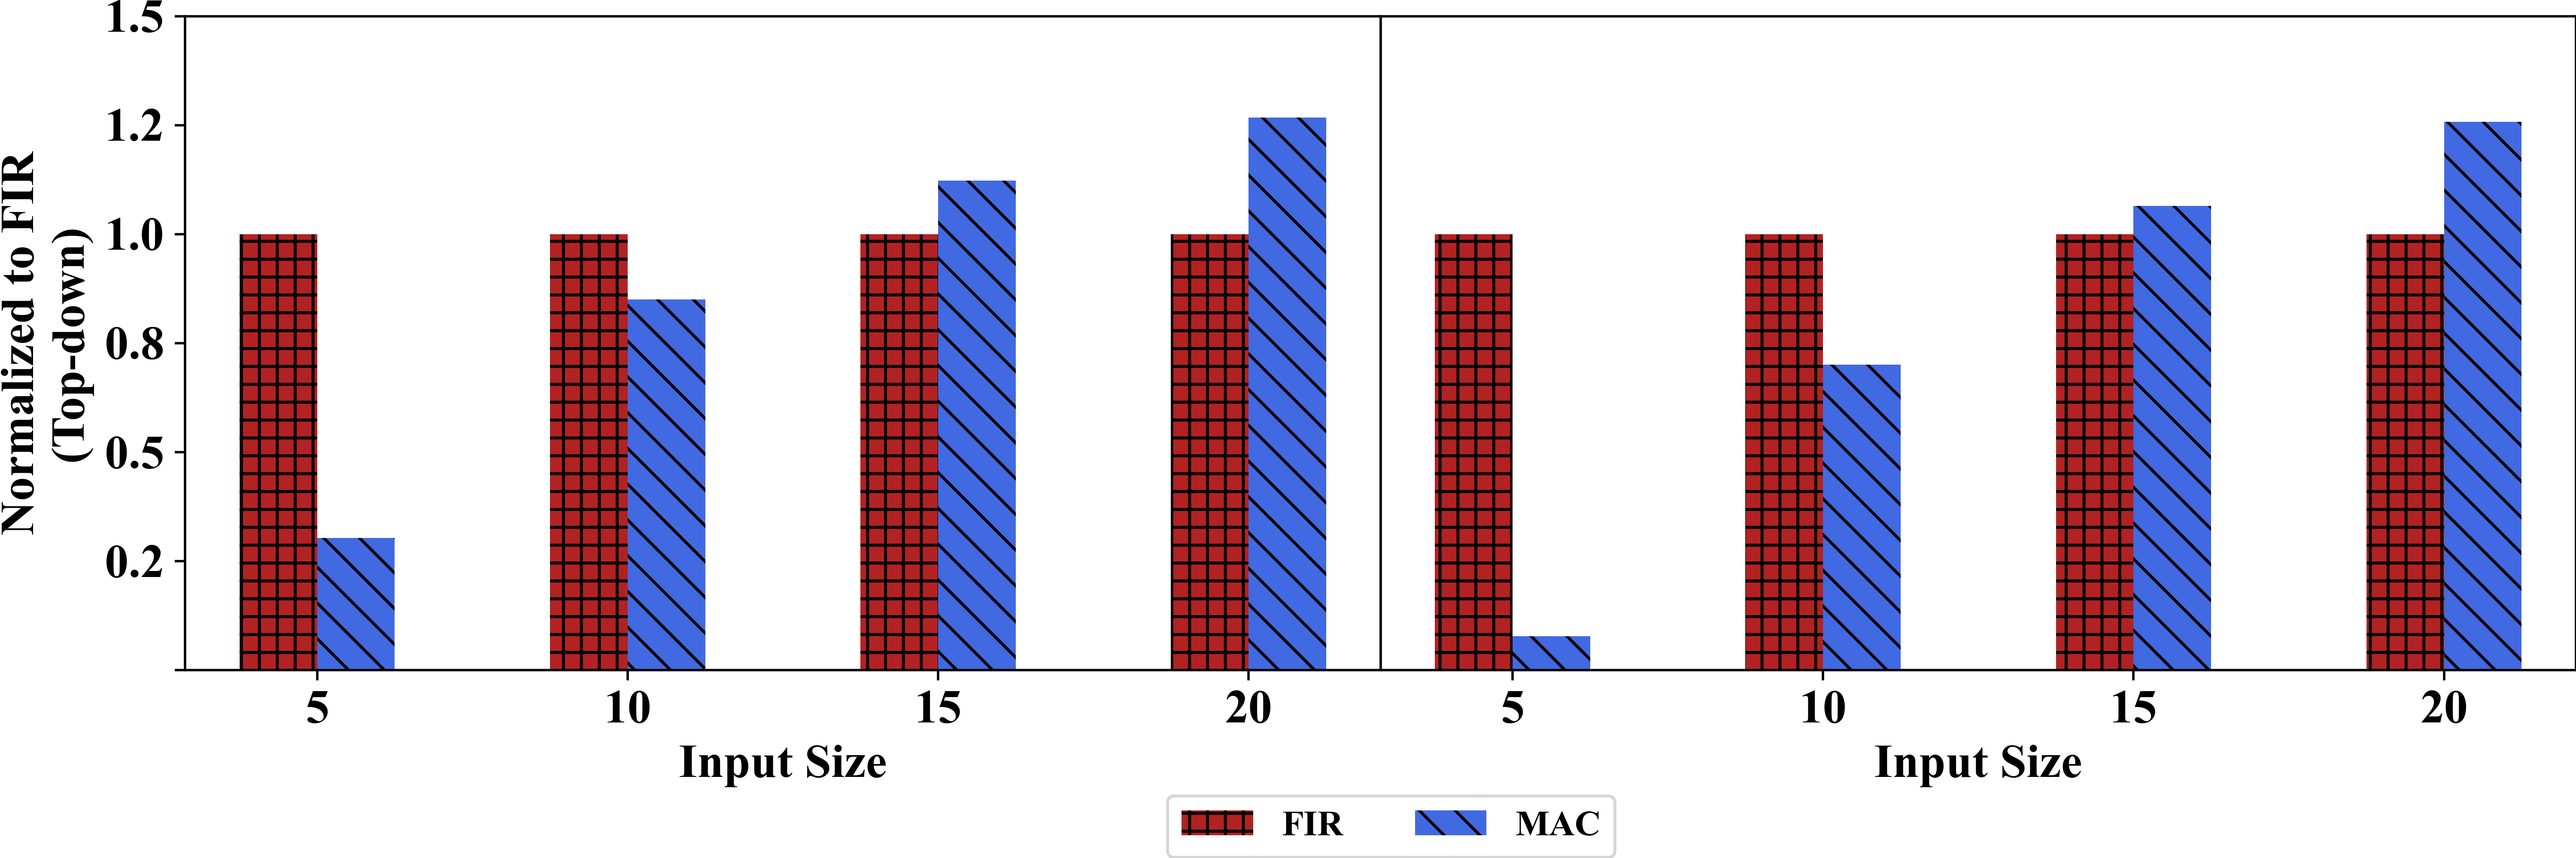
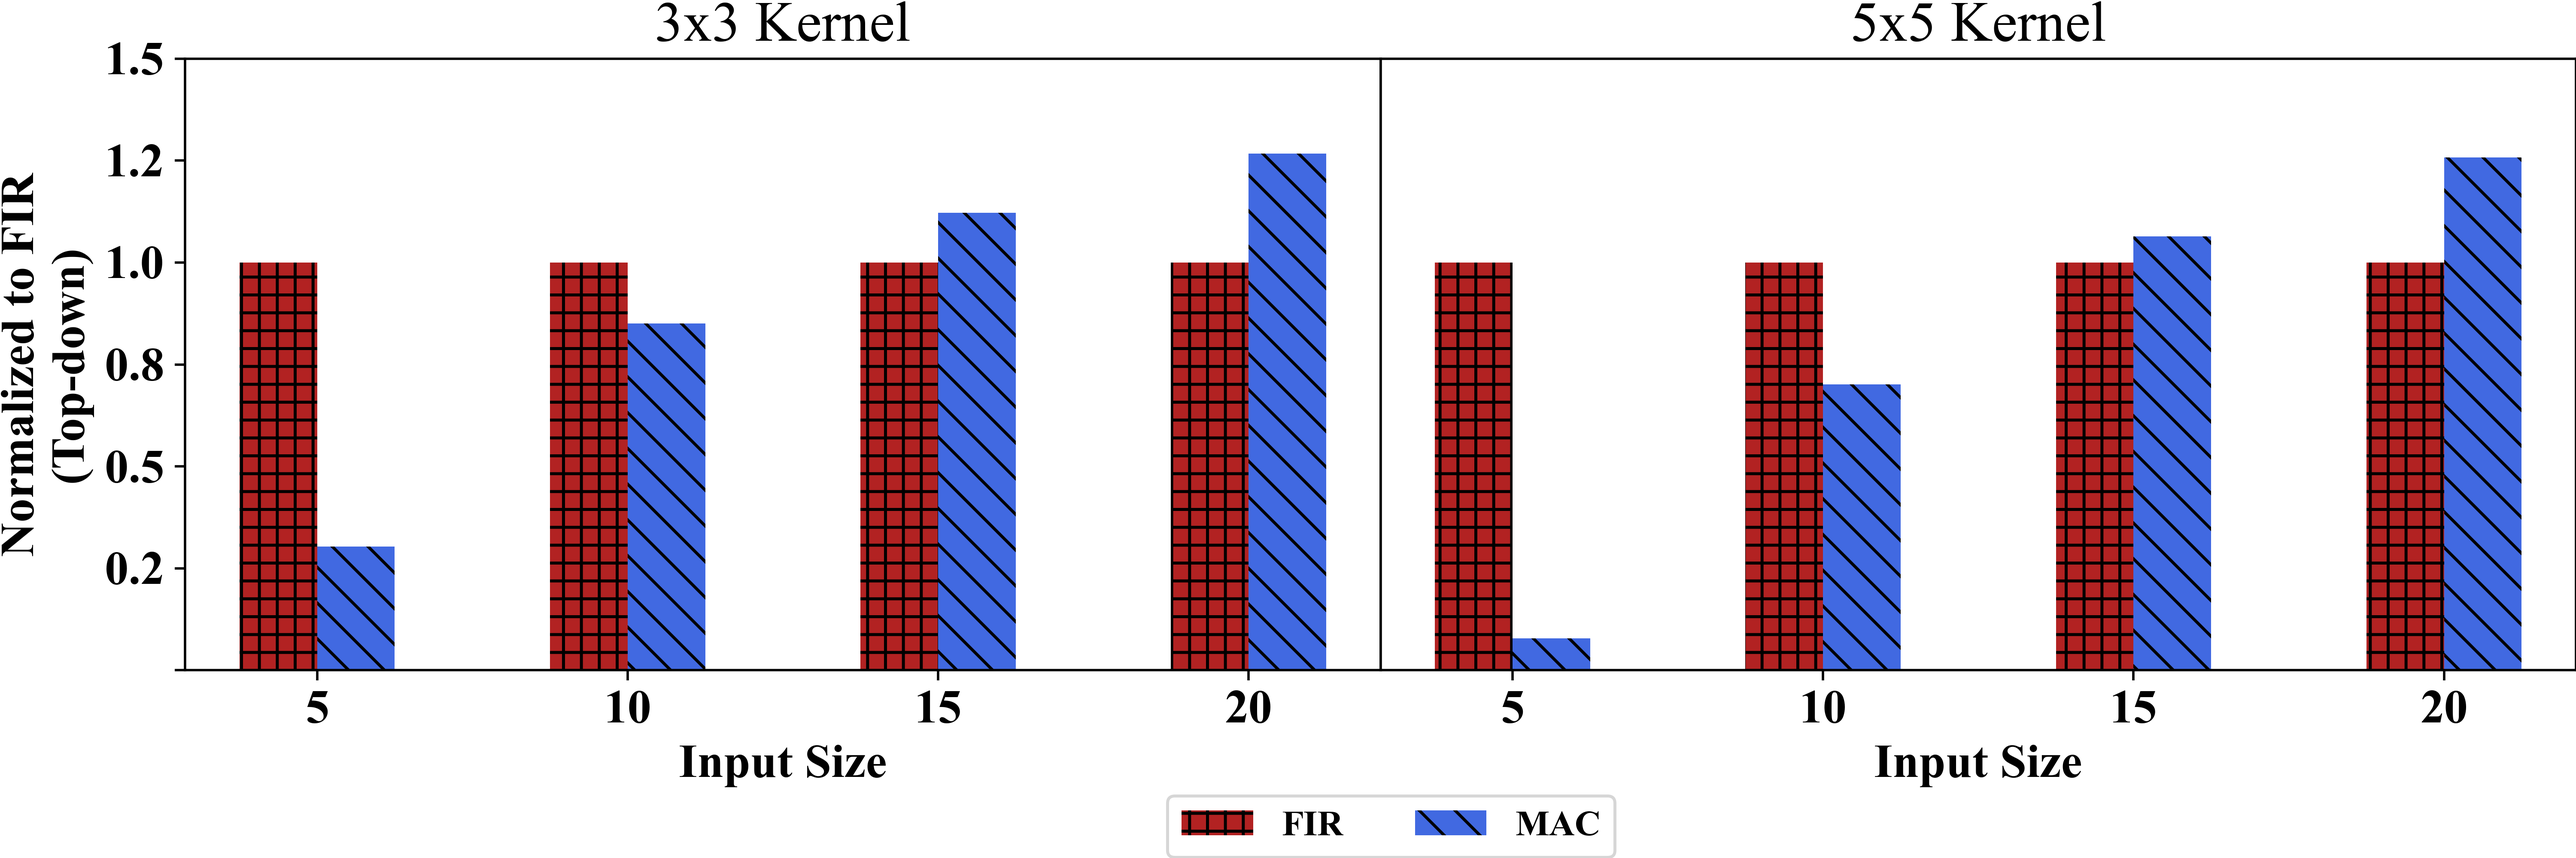
update

diff --git a/logs/motivation/adaptive/plot.py b/logs/motivation/adaptive/plot.py
@@ -96,7 +96,7 @@ plt.rcParams["axes.labelweight"] = "bold"
 
 fig, axs = plt.subplots(1, 2, figsize=(12, 4))
 
-def plot(data, k, ax, title, labels):
+def plot(data, k, ax, labels):
     kernel_size = f"kernel size: {k}"
 
     input_sizes = [5, 10, 15, 20]
@@ -119,10 +119,8 @@ def plot(data, k, ax, title, labels):
     )
 
     ax.set_ylim([0, 1.5])
-    if title:
-        ax.set_title(f"{k}x{k} Kernel")
-    else:
-        ax.set_xlabel('Input Size')
+    ax.set_title(f"{k}x{k} Kernel")
+    ax.set_xlabel('Input Size')
     ax.set_xticks(index + bar_width / 2)
     ax.set_xticklabels(input_sizes)
     ax.yaxis.set_major_formatter(ticker.FormatStrFormatter('%.1f'))
@@ -130,11 +128,11 @@ def plot(data, k, ax, title, labels):
 
 # plot(log_base, 3, axs[0, 0], True, labels=[None]*4)
 # plot(log_base, 5, axs[0, 1], True, labels=[None]*4)
-plot(log_lupe, 3, axs[0], False, labels=[
+plot(log_lupe, 3, axs[0], labels=[
     "FIR",
     "MAC",
 ])
-plot(log_lupe, 5, axs[1], False, labels=[None]*4)
+plot(log_lupe, 5, axs[1], labels=[None]*4)
 
 yticks = axs[0].yaxis.get_major_ticks()
 yticks[0].label1.set_visible(False)
